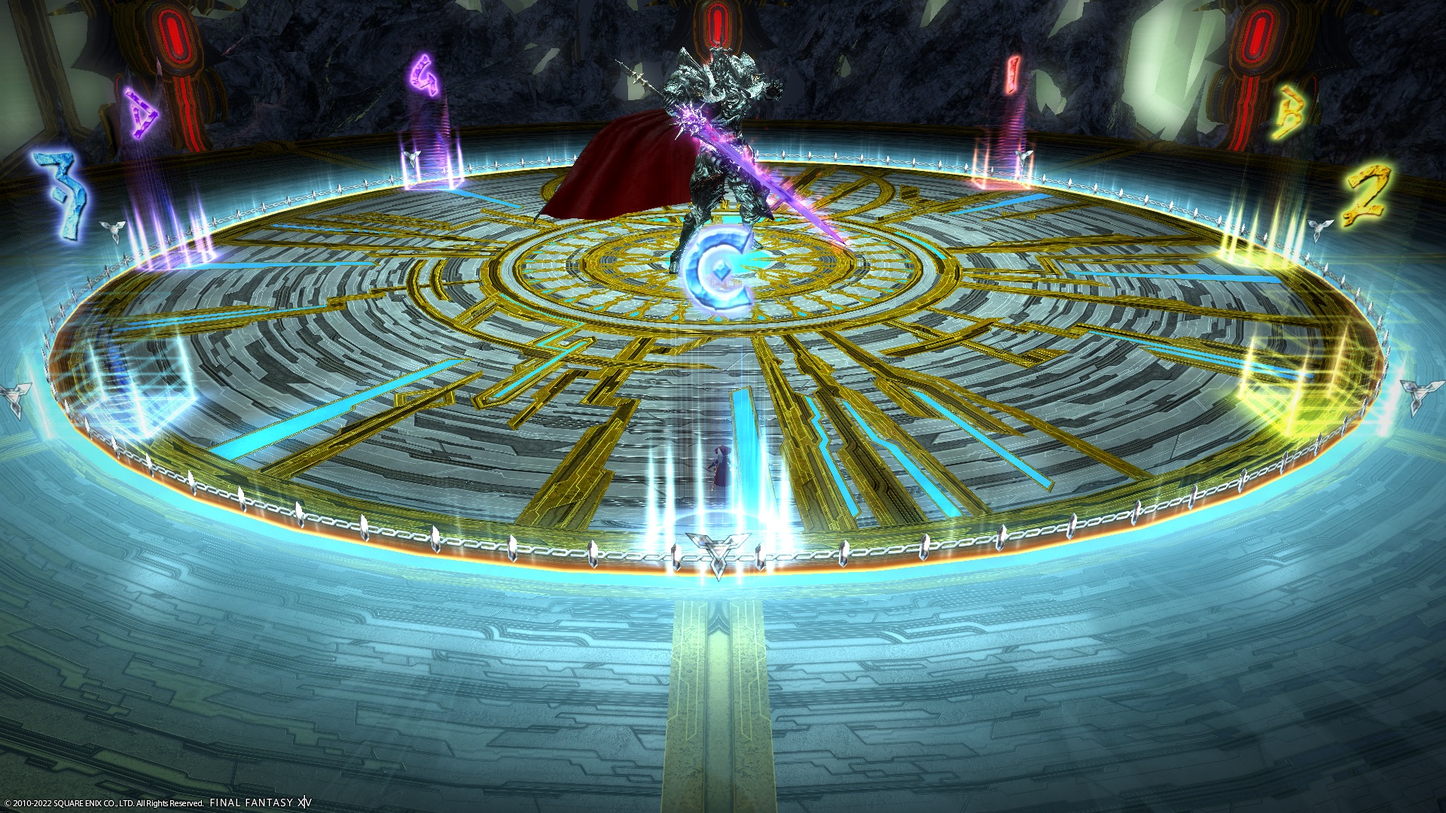
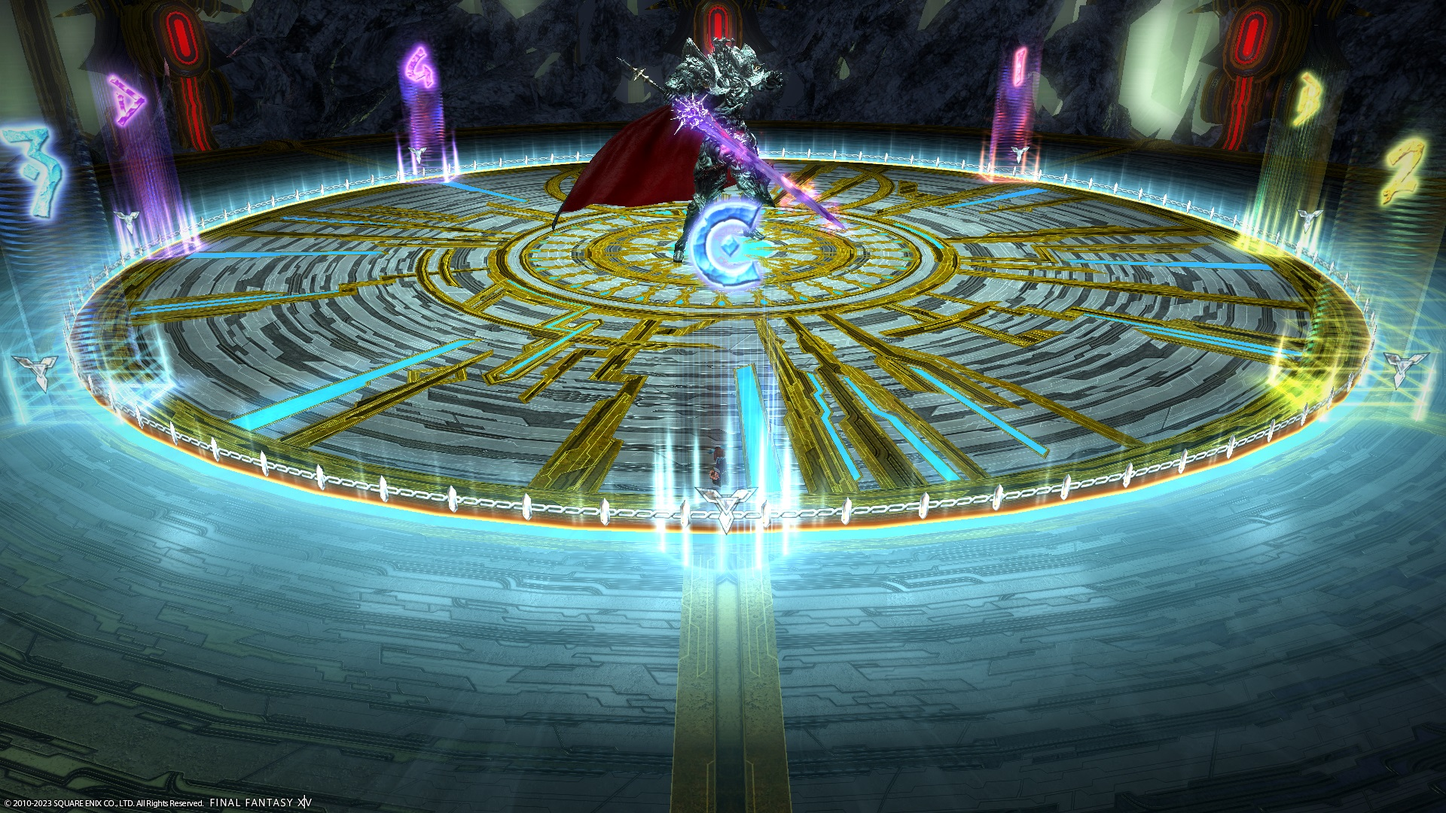
Update marker images and outer marker positions

diff --git a/ultimates/dsr/README.md b/ultimates/dsr/README.md
@@ -72,19 +72,25 @@ This is the macro for the bulk of the fight.
 
 ## Markers
 
-A lot of players use the "outer" markers:
+If you are doing the fixed Wyrmsbreath 2 strat, I recommend you use the "outer" markers as the tanks can use the intercardinal markers for reference on where to stand.
 
 ![](images/markers_outer.jpg)
 <details markdown=block>
 <summary>XIVLauncher WaymarkPresetPlugin positions</summary>
 
 ```json
-{"Name":"Dragonsong's Reprise (Outer)","MapID":788,"A":{"X":100.0,"Y":0.0,"Z":80.0,"ID":0,"Active":true},"B":{"X":120.0,"Y":0.0,"Z":100.0,"ID":1,"Active":true},"C":{"X":100.0,"Y":0.0,"Z":120.0,"ID":2,"Active":true},"D":{"X":80.0,"Y":0.0,"Z":100.0,"ID":3,"Active":true},"One":{"X":114.1421,"Y":0.0,"Z":85.85786,"ID":4,"Active":true},"Two":{"X":114.142,"Y":0.0,"Z":114.142,"ID":5,"Active":true},"Three":{"X":85.85786,"Y":0.0,"Z":114.142,"ID":6,"Active":true},"Four":{"X":85.858,"Y":0.0,"Z":85.858,"ID":7,"Active":true}}
+{"Name":"Dragonsong's Reprise (Outer)","MapID":788,"A":{"X":100.0,"Y":0.0,"Z":79.0,"ID":0,"Active":true},"B":{"X":121.0,"Y":0.0,"Z":100.0,"ID":1,"Active":true},"C":{"X":100.0,"Y":0.0,"Z":121.0,"ID":2,"Active":true},"D":{"X":79.0,"Y":0.0,"Z":100.0,"ID":3,"Active":true},"One":{"X":114.849,"Y":0.0,"Z":85.151,"ID":4,"Active":true},"Two":{"X":114.849,"Y":0.0,"Z":114.849,"ID":5,"Active":true},"Three":{"X":85.151,"Y":0.0,"Z":114.849,"ID":6,"Active":true},"Four":{"X":85.151,"Y":0.0,"Z":85.151,"ID":7,"Active":true}}
 ```
 
 </details>
 
-I personally *much prefer* "inner" markers.
+Otherwise, the "inner" markers are also popular.
+
+The intercardinal markers demarcate:
+
+- The boundaries for the charges at the start of Strength of the Ward
+- Where to stand to bait the towers in Nidhogg
+- The boundary of Hot Tail in the Double Dragons phase.
 
 ![](images/markers_inner.jpg)
 <details markdown=block>
